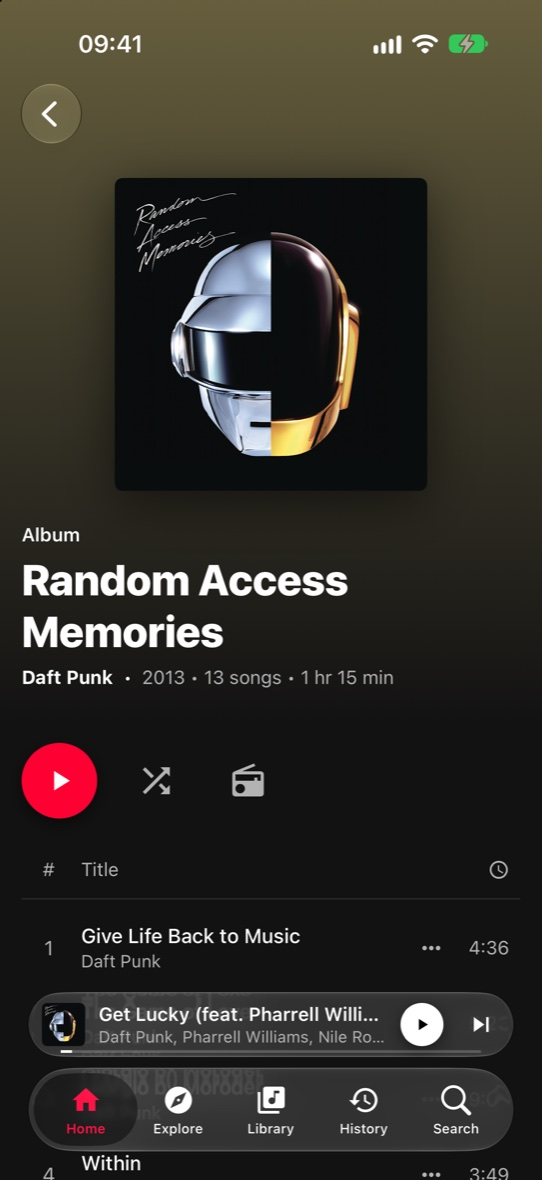
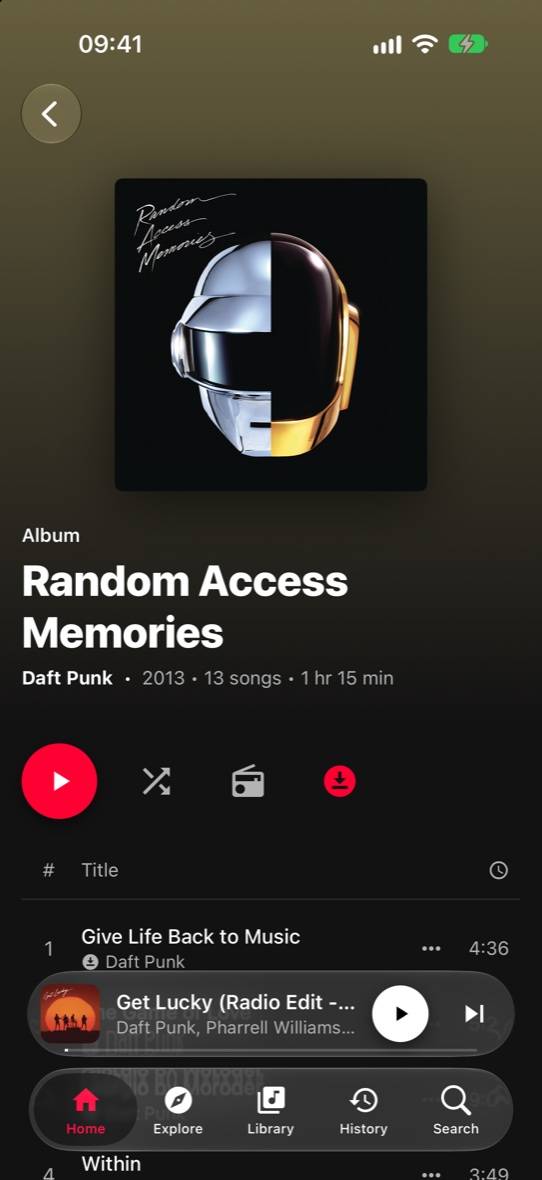
docs: Fresh screenshots, and the README brought up to date with downloads

diff --git a/README.md b/README.md
@@ -16,9 +16,9 @@
 
 <br>
 
-<img src="docs/hero.jpg" width="100%" alt="YT Music for iOS: an artist page with its banner, synced lyrics tinted from the artwork, and the queue">
+<img src="docs/hero.jpg" width="100%" alt="YT Music for iOS: an artist page with its banner, synced lyrics in the artwork's colours, and the queue">
 
-<sub>Artist pages with their banner · lyrics that follow the song, tinted from its artwork · a queue you drag into order</sub>
+<sub>Artist pages with their banner · lyrics that follow the song, in its artwork's colours · a queue you drag into order</sub>
 
 </div>
 
@@ -41,7 +41,7 @@ Swift and SwiftUI from top to bottom, on Apple's own audio engine. No web views,
 <td width="33%" valign="top">
 
 ### Looks the part
-Dark, light or pure black, in seven accents, or one that follows the song's artwork. Pages are tinted to match.
+Dark, light or pure black, in seven accents, or one that follows the song's artwork. Pages are tinted to match, and Now Playing takes on the artwork's colours.
 
 </td>
 </tr>
@@ -49,19 +49,19 @@ Dark, light or pure black, in seven accents, or one that follows the song's artw
 <td width="33%" valign="top">
 
 ### Plays like YouTube Music
-Radio, autoplay, Smart Shuffle, repeat, history and search with recent searches. Artist pages carry the whole discography.
+Radio, autoplay, Smart Shuffle, repeat, history and search with recent searches. Speed dial on Home, and artist pages with the whole discography. Songs, albums and playlists download to play offline.
 
 </td>
 <td width="33%" valign="top">
 
 ### Lyrics and queue
-Synced lyrics you can tap to jump to. A queue you drag into order, edit several songs at a time, and save as a playlist.
+Swipe up from the artwork for synced lyrics you can tap to jump to, and a queue you drag into order, edit several songs at a time, and save as a playlist.
 
 </td>
 <td width="33%" valign="top">
 
 ### At home on iPhone
-The lock screen, Control Center and your AirPods, Last.fm, and the Liquid Glass tab bar. Reopens on the song you left, at the second you left it.
+The lock screen, Control Center, the volume buttons and your AirPods, Last.fm, and a Liquid Glass tab bar and icon. Reopens on the song you left, at the second you left it.
 
 </td>
 </tr>
@@ -71,9 +71,9 @@ The lock screen, Control Center and your AirPods, Last.fm, and the Liquid Glass 
 
 <table>
 <tr>
-<td width="25%"><img src="docs/home.jpg" alt="Home in the dark look, tinted with the accent"></td>
-<td width="25%"><img src="docs/home-light.jpg" alt="Home in the light look"></td>
-<td width="25%"><img src="docs/album-black.jpg" alt="An album page in the pure black look"></td>
+<td width="25%"><img src="docs/home.jpg" alt="Home in the dark theme, tinted with the accent"></td>
+<td width="25%"><img src="docs/home-light.jpg" alt="Home in the light theme"></td>
+<td width="25%"><img src="docs/album-black.jpg" alt="Discovery's album page in the pure black theme"></td>
 <td width="25%"><img src="docs/album.jpg" alt="An album page tinted from its cover"></td>
 </tr>
 <tr>
@@ -83,20 +83,20 @@ The lock screen, Control Center and your AirPods, Last.fm, and the Liquid Glass 
 <td align="center"><b>Albums</b> · tinted from the cover</td>
 </tr>
 <tr>
-<td width="25%"><img src="docs/explore.jpg" alt="Explore's moods and genres"></td>
+<td width="25%"><img src="docs/explore.jpg" alt="Explore's moods and moments"></td>
 <td width="25%"><img src="docs/search.jpg" alt="Search results with the top result"></td>
-<td width="25%"><img src="docs/nowplaying.jpg" alt="Now Playing, tinted from the artwork"></td>
-<td width="25%"><img src="docs/library.jpg" alt="Library, asking to sign in"></td>
+<td width="25%"><img src="docs/nowplaying.jpg" alt="Now Playing, coloured from the artwork"></td>
+<td width="25%"><img src="docs/library.jpg" alt="Library, asking to sign in, with the Downloads button"></td>
 </tr>
 <tr>
-<td align="center"><b>Explore</b> · moods, genres and new releases</td>
+<td align="center"><b>Explore</b> · moods, moments and more</td>
 <td align="center"><b>Search</b> · with a top result</td>
-<td align="center"><b>Now Playing</b> · the artwork's colour</td>
-<td align="center"><b>Library</b> · bring yours</td>
+<td align="center"><b>Now Playing</b> · in the artwork's colours</td>
+<td align="center"><b>Library</b> · yours when signed in, with downloads</td>
 </tr>
 </table>
 
-Pick a look and an accent in **Settings ▸ Appearance**: Red, Orange, Green, Teal, Blue, Purple, Pink, or **From the artwork**.
+Pick a theme and an accent colour in **Settings ▸ Appearance**: Red, Orange, Green, Teal, Blue, Purple, Pink, or **From the artwork**.
 
 ## Sounds as good as YouTube gets
 
@@ -116,6 +116,28 @@ Pick a look and an accent in **Settings ▸ Appearance**: Red, Orange, Green, Te
 | **Normalise volume** | Plays every track at a similar loudness, from YouTube's own measurement, as YouTube Music does. |
 | **No clicks, no drop-outs** | Pausing ramps the sound down, and seeks and skips fade in. Unplug your headphones and the music carries on through the speaker. |
 
+## Take it offline
+
+<table>
+<tr>
+<td width="62%" valign="top">
+
+Tap the download button on an album or playlist, or **Download** in any song's menu, and it plays from the phone after that, online or not. Offline, the queue skips what isn't downloaded, and downloaded albums and playlists still open.
+
+| Feature | What it does |
+| --- | --- |
+| **Smart downloads** | Keeps 25 to 200 songs downloaded, from what you play and more like it, picked afresh each day. |
+| **Stays current** | Downloaded albums and playlists pick up YouTube's changes once a day. |
+| **Wi-Fi only** | Downloads wait for Wi-Fi rather than use mobile data or a hotspot, unless you say otherwise. |
+| **Download quality** | Set apart from streaming: Low, Normal or High, which is 256 kbps Opus with Premium. |
+
+Find them behind the download button at the top of Library, and the settings in **Settings ▸ Downloads**.
+
+</td>
+<td width="38%"><img src="docs/downloads.jpg" alt="The Downloads page, with 27 songs on the phone"></td>
+</tr>
+</table>
+
 ## Install
 
 Grab `YTMusic.ipa` from the [latest release](https://github.com/Visxoz/YTMusic-Native-IOS/releases/latest), then:
@@ -132,17 +154,20 @@ Grab `YTMusic.ipa` from the [latest release](https://github.com/Visxoz/YTMusic-N
 | Do | To |
 | --- | --- |
 | Tap the mini player | Open Now Playing |
-| Tap **Up next** or **Lyrics** | Show the queue or the lyrics beside the player |
+| Swipe up on Now Playing, or tap **Up next** or **Lyrics** | Show the queue or the lyrics under the player |
+| Swipe down | Go back to the artwork, then close Now Playing |
+| Tap the song or artist in Now Playing | Go to its album or artist |
 | Tap a lyric line | Jump to it |
 | Drag a song in the queue | Move it |
 | Swipe a song in the queue | Remove it |
 | **Select** in the queue | Pick several songs, then play them next or remove them |
-| Press and hold a song or card | Play it next, add it to the queue, start a radio, like it, save it to a playlist, or go to its artist or album |
+| Press and hold a song | Play it next, add it to the queue, start a radio, download it, like it, save it to a playlist, or go to its artist or album |
+| Press and hold a card | Play it, start a radio, or download an album or playlist |
 | Tap the shuffle button | Cycle Off, Shuffle and **Smart Shuffle**, which mixes in recommendations |
 
 ## Your account
 
-Tap the account button, then **Settings ▸ Account ▸ Sign in**, and sign in on Google's own page. The page closes by itself once you're in. Your playlists, albums and artists appear in Library, Home becomes your own feed, and what you play here counts towards your YouTube Music history and recommendations.
+Tap the account button, then **Settings ▸ Account ▸ Sign in**, and sign in on Google's own page. The page closes by itself once you're in. Your playlists, albums and artists appear in Library, Home becomes your own feed, and what you play here counts towards your YouTube Music history and recommendations, unless you turn off **YouTube history** in **Settings ▸ Account**.
 
 The sign-in is kept in the iPhone's Keychain, for this device only. Google's page is shown in a private web view that's thrown away as soon as you're signed in.
 
@@ -187,10 +212,11 @@ flowchart LR
 | Demuxing | Its own WebM and MP4 readers (`YTMAudio`) |
 | Opus and AAC | AudioToolbox |
 | Audio output | AVAudioEngine, with AVAudioUnitEQ |
-| Interface | SwiftUI, with ytm-native's own icons drawn as shapes |
+| Interface | SwiftUI, with ytm-native's own icons drawn as shapes, and Now Playing's mesh gradient taken from the artwork |
 | Networking | URLSession over HTTP/2 |
 | Artwork | ImageIO, decoded at the size it's shown |
-| Lock screen and AirPods | MediaPlayer |
+| Lock screen, AirPods and volume | MediaPlayer |
+| Offline and Wi-Fi only | The Network framework |
 | Google sign-in | WebKit, only while signing in |
 
 Most YouTube clients get stream URLs that YouTube's player JavaScript has to unscramble. The visionOS client gets plain ones, so the app asks as that client and needs no JavaScript engine, falling back to Android VR and iOS if YouTube changes it. With Premium, the app unscrambles the web player's URLs itself, in a short-lived JavaScriptCore context with a cut-down copy of the player.
@@ -221,8 +247,8 @@ Or open `YTMusic.xcodeproj` and run it on the iPhone simulator.
 | --- | --- |
 | `App/` | The SwiftUI app |
 | `Packages/YTMKit/Sources/YTMCore` | Models, the InnerTube API, page parsing, streams and Premium, persistence, Last.fm, artwork |
-| `Packages/YTMKit/Sources/YTMAudio` | Streaming download, the WebM and MP4 readers, decoding and the audio engine |
-| `Packages/YTMKit/Sources/YTMPlayback` | The queue, the player, Now Playing, Smart Shuffle, scrobbling |
+| `Packages/YTMKit/Sources/YTMAudio` | Streaming download, saving downloads, the WebM and MP4 readers, decoding and the audio engine |
+| `Packages/YTMKit/Sources/YTMPlayback` | The queue, the player, Now Playing, Smart Shuffle, downloads, scrobbling |
 | `Packages/YTMKit/Sources/ytmcheck` | A macOS tool that checks the app's YouTube paths are still working |
 
 </details>
